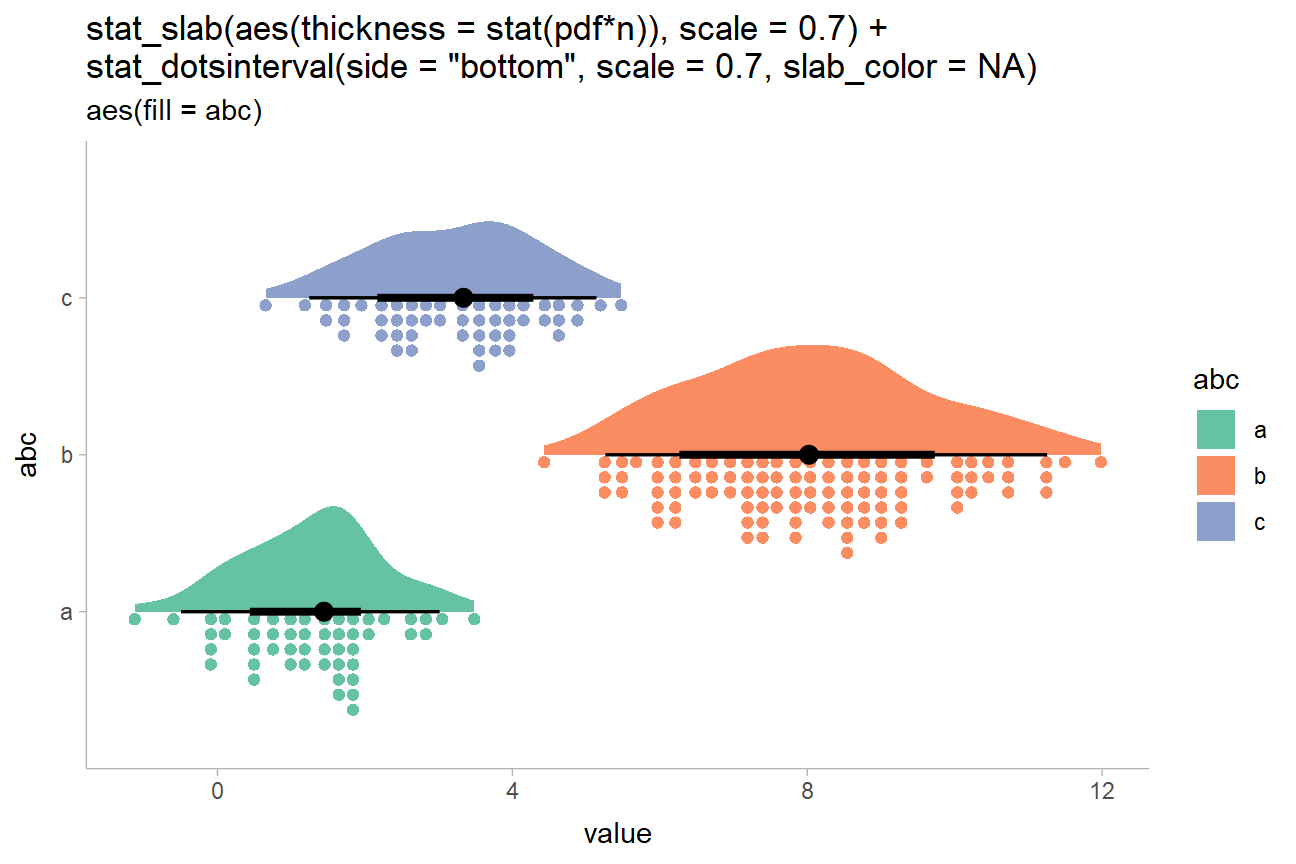
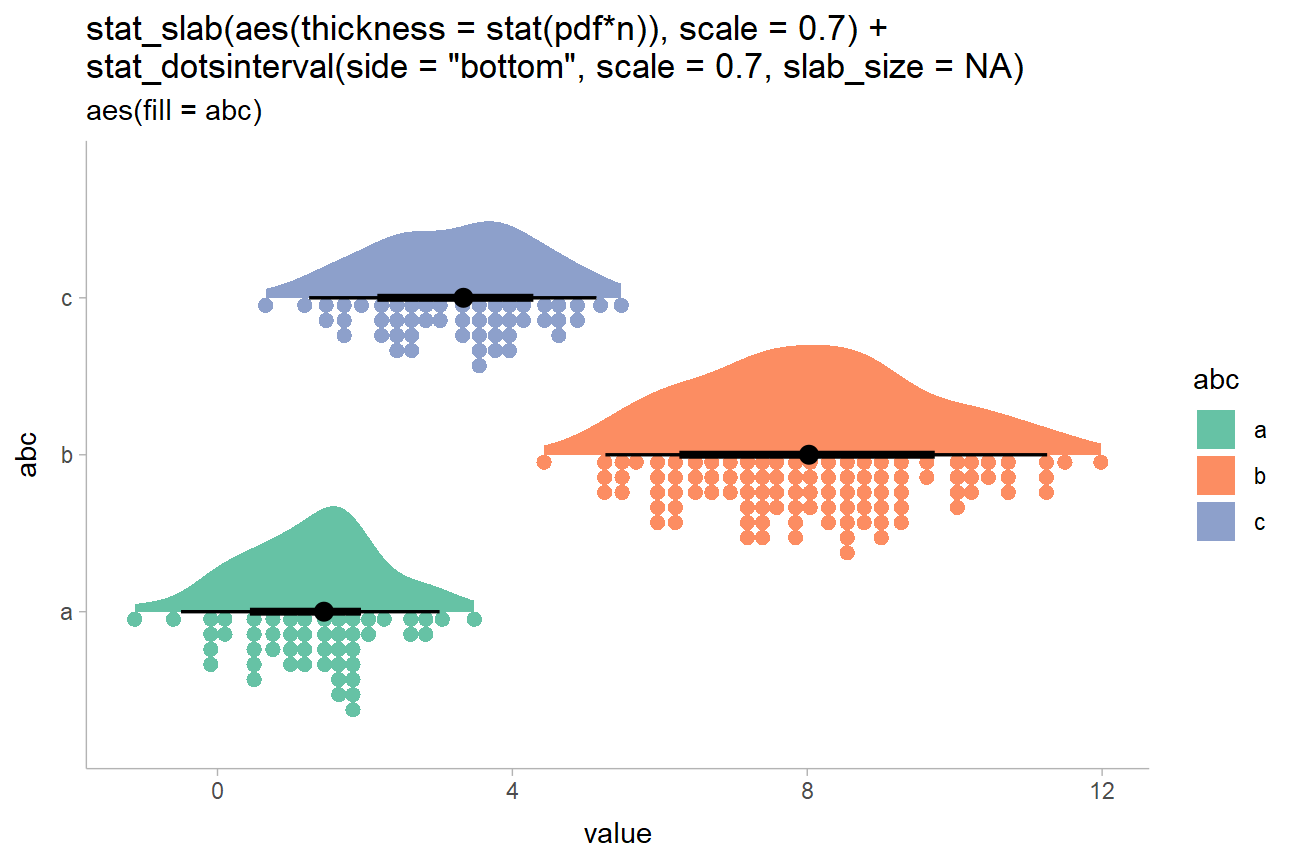
minor doc improvements

diff --git a/docs/articles/dotsinterval.html b/docs/articles/dotsinterval.html
@@ -104,7 +104,7 @@
       <h1 data-toc-skip>Dots + interval stats and geoms</h1>
                         <h4 data-toc-skip class="author">Matthew Kay</h4>
             
-            <h4 data-toc-skip class="date">2022-02-12</h4>
+            <h4 data-toc-skip class="date">2022-02-13</h4>
       
       <small class="dont-index">Source: <a href="https://github.com/mjskay/ggdist/blob/HEAD/vignettes/dotsinterval.Rmd" class="external-link"><code>vignettes/dotsinterval.Rmd</code></a></small>
       <div class="hidden name"><code>dotsinterval.Rmd</code></div>
@@ -279,7 +279,7 @@ img {
     <span class="st">'aes(fill = hi)'</span>
   <span class="op">)</span></code></pre></div>
 <p><img src="dotsinterval_files/figure-html/beeswarm_dodge-1.png" width="648"></p>
-<p>The color of the default gray outline can be changed using the <code>color</code> aesthetic, or you can remove it altogether by setting <code>size = 0</code> (or <code>slab_size = 0</code> when using <code><a href="../reference/geom_dotsinterval.html">stat_dotsinterval()</a></code> / <code><a href="../reference/geom_dotsinterval.html">geom_dotsinterval()</a></code>), or by changing to solid shapes and using the <code>color</code> aesthetic (the usual “plotting characters”, e.g.  numbers from <code>0:24</code>, are supported).</p>
+<p>The color of the default gray outline can be changed using the <code>color</code> aesthetic, or you can remove it altogether by setting <code>size = 0</code> (or <code>slab_size = 0</code> when using <code><a href="../reference/geom_dotsinterval.html">stat_dotsinterval()</a></code> / <code><a href="../reference/geom_dotsinterval.html">geom_dotsinterval()</a></code>), or by changing to solid shapes (the usual “plotting characters”, e.g.  numbers from <code>0:24</code>, are supported) and using the <code>color</code> aesthetic.</p>
 <p>For example, we can vary <code>shape</code> and <code>color</code> simultaneously:</p>
 <div class="sourceCode" id="cb6"><pre class="downlit sourceCode r">
 <code class="sourceCode R"><span class="va">abcc_df</span> <span class="op"><a href="https://magrittr.tidyverse.org/reference/pipe.html" class="external-link">%&gt;%</a></span>
@@ -460,11 +460,11 @@ img {
 <span class="op">)</span> <span class="op"><a href="https://magrittr.tidyverse.org/reference/pipe.html" class="external-link">%&gt;%</a></span>
   <span class="fu"><a href="https://ggplot2.tidyverse.org/reference/ggplot.html" class="external-link">ggplot</a></span><span class="op">(</span><span class="fu"><a href="https://ggplot2.tidyverse.org/reference/aes.html" class="external-link">aes</a></span><span class="op">(</span>y <span class="op">=</span> <span class="va">abc</span>, x <span class="op">=</span> <span class="va">value</span>, fill <span class="op">=</span> <span class="va">abc</span><span class="op">)</span><span class="op">)</span> <span class="op">+</span>
   <span class="fu"><a href="../reference/stat_slab.html">stat_slab</a></span><span class="op">(</span><span class="fu"><a href="https://ggplot2.tidyverse.org/reference/aes.html" class="external-link">aes</a></span><span class="op">(</span>thickness <span class="op">=</span> <span class="fu"><a href="https://ggplot2.tidyverse.org/reference/aes_eval.html" class="external-link">stat</a></span><span class="op">(</span><span class="va">pdf</span><span class="op">*</span><span class="va">n</span><span class="op">)</span><span class="op">)</span>, scale <span class="op">=</span> <span class="fl">0.7</span><span class="op">)</span> <span class="op">+</span>
-  <span class="fu"><a href="../reference/geom_dotsinterval.html">stat_dotsinterval</a></span><span class="op">(</span>side <span class="op">=</span> <span class="st">"bottom"</span>, scale <span class="op">=</span> <span class="fl">0.7</span>, slab_color <span class="op">=</span> <span class="cn">NA</span><span class="op">)</span> <span class="op">+</span>
+  <span class="fu"><a href="../reference/geom_dotsinterval.html">stat_dotsinterval</a></span><span class="op">(</span>side <span class="op">=</span> <span class="st">"bottom"</span>, scale <span class="op">=</span> <span class="fl">0.7</span>, slab_size <span class="op">=</span> <span class="cn">NA</span><span class="op">)</span> <span class="op">+</span>
   <span class="fu"><a href="https://ggplot2.tidyverse.org/reference/scale_brewer.html" class="external-link">scale_fill_brewer</a></span><span class="op">(</span>palette <span class="op">=</span> <span class="st">"Set2"</span><span class="op">)</span> <span class="op">+</span>
   <span class="fu"><a href="https://ggplot2.tidyverse.org/reference/labs.html" class="external-link">ggtitle</a></span><span class="op">(</span><span class="fu"><a href="https://rdrr.io/r/base/paste.html" class="external-link">paste0</a></span><span class="op">(</span>
       <span class="st">'stat_slab(aes(thickness = stat(pdf*n)), scale = 0.7) +\n'</span>,
-      <span class="st">'stat_dotsinterval(side = "bottom", scale = 0.7, slab_color = NA)'</span>
+      <span class="st">'stat_dotsinterval(side = "bottom", scale = 0.7, slab_size = NA)'</span>
     <span class="op">)</span>,
     <span class="st">'aes(fill = abc)'</span>
   <span class="op">)</span></code></pre></div>

diff --git a/docs/news/index.html b/docs/news/index.html
@@ -73,7 +73,7 @@
     </div>
 
     <div class="section level2">
-<h2 class="page-header" data-toc-text="3.1.0" id="ggdist-310">ggdist 3.1.0<a class="anchor" aria-label="anchor" href="#ggdist-310"></a></h2>
+<h2 class="page-header" data-toc-text="3.1.0" id="ggdist-310">ggdist 3.1.0<small>2022-02-13</small><a class="anchor" aria-label="anchor" href="#ggdist-310"></a></h2>
 <p>New features and enhancements:</p>
 <ul><li>The <code>stat_sample_...</code> and <code>stat_dist_...</code> families of stats have been merged (<a href="https://github.com/mjskay/ggdist/issues/83" class="external-link">#83</a>).
 <ul><li>All <code>stat_dist_...</code> stats are deprecated in favor of their <code>stat_...</code> counterparts, which now understand the <code>dist</code>, <code>args</code>, and <code>arg1</code>…<code>arg9</code> aesthetics.</li>

diff --git a/docs/extra.css b/docs/extra.css
@@ -27,6 +27,10 @@ h1 small, .h1 small {
   letter-spacing: 0.5px;
 }
 
+h2 small {
+  margin-left: 1ex;
+}
+
 img#tidybayes_logo {
   width: 80px;
   margin-top: -26px;

diff --git a/pkgdown/extra.css b/pkgdown/extra.css
@@ -27,6 +27,10 @@ h1 small, .h1 small {
   letter-spacing: 0.5px;
 }
 
+h2 small {
+  margin-left: 1ex;
+}
+
 img#tidybayes_logo {
   width: 80px;
   margin-top: -26px;
